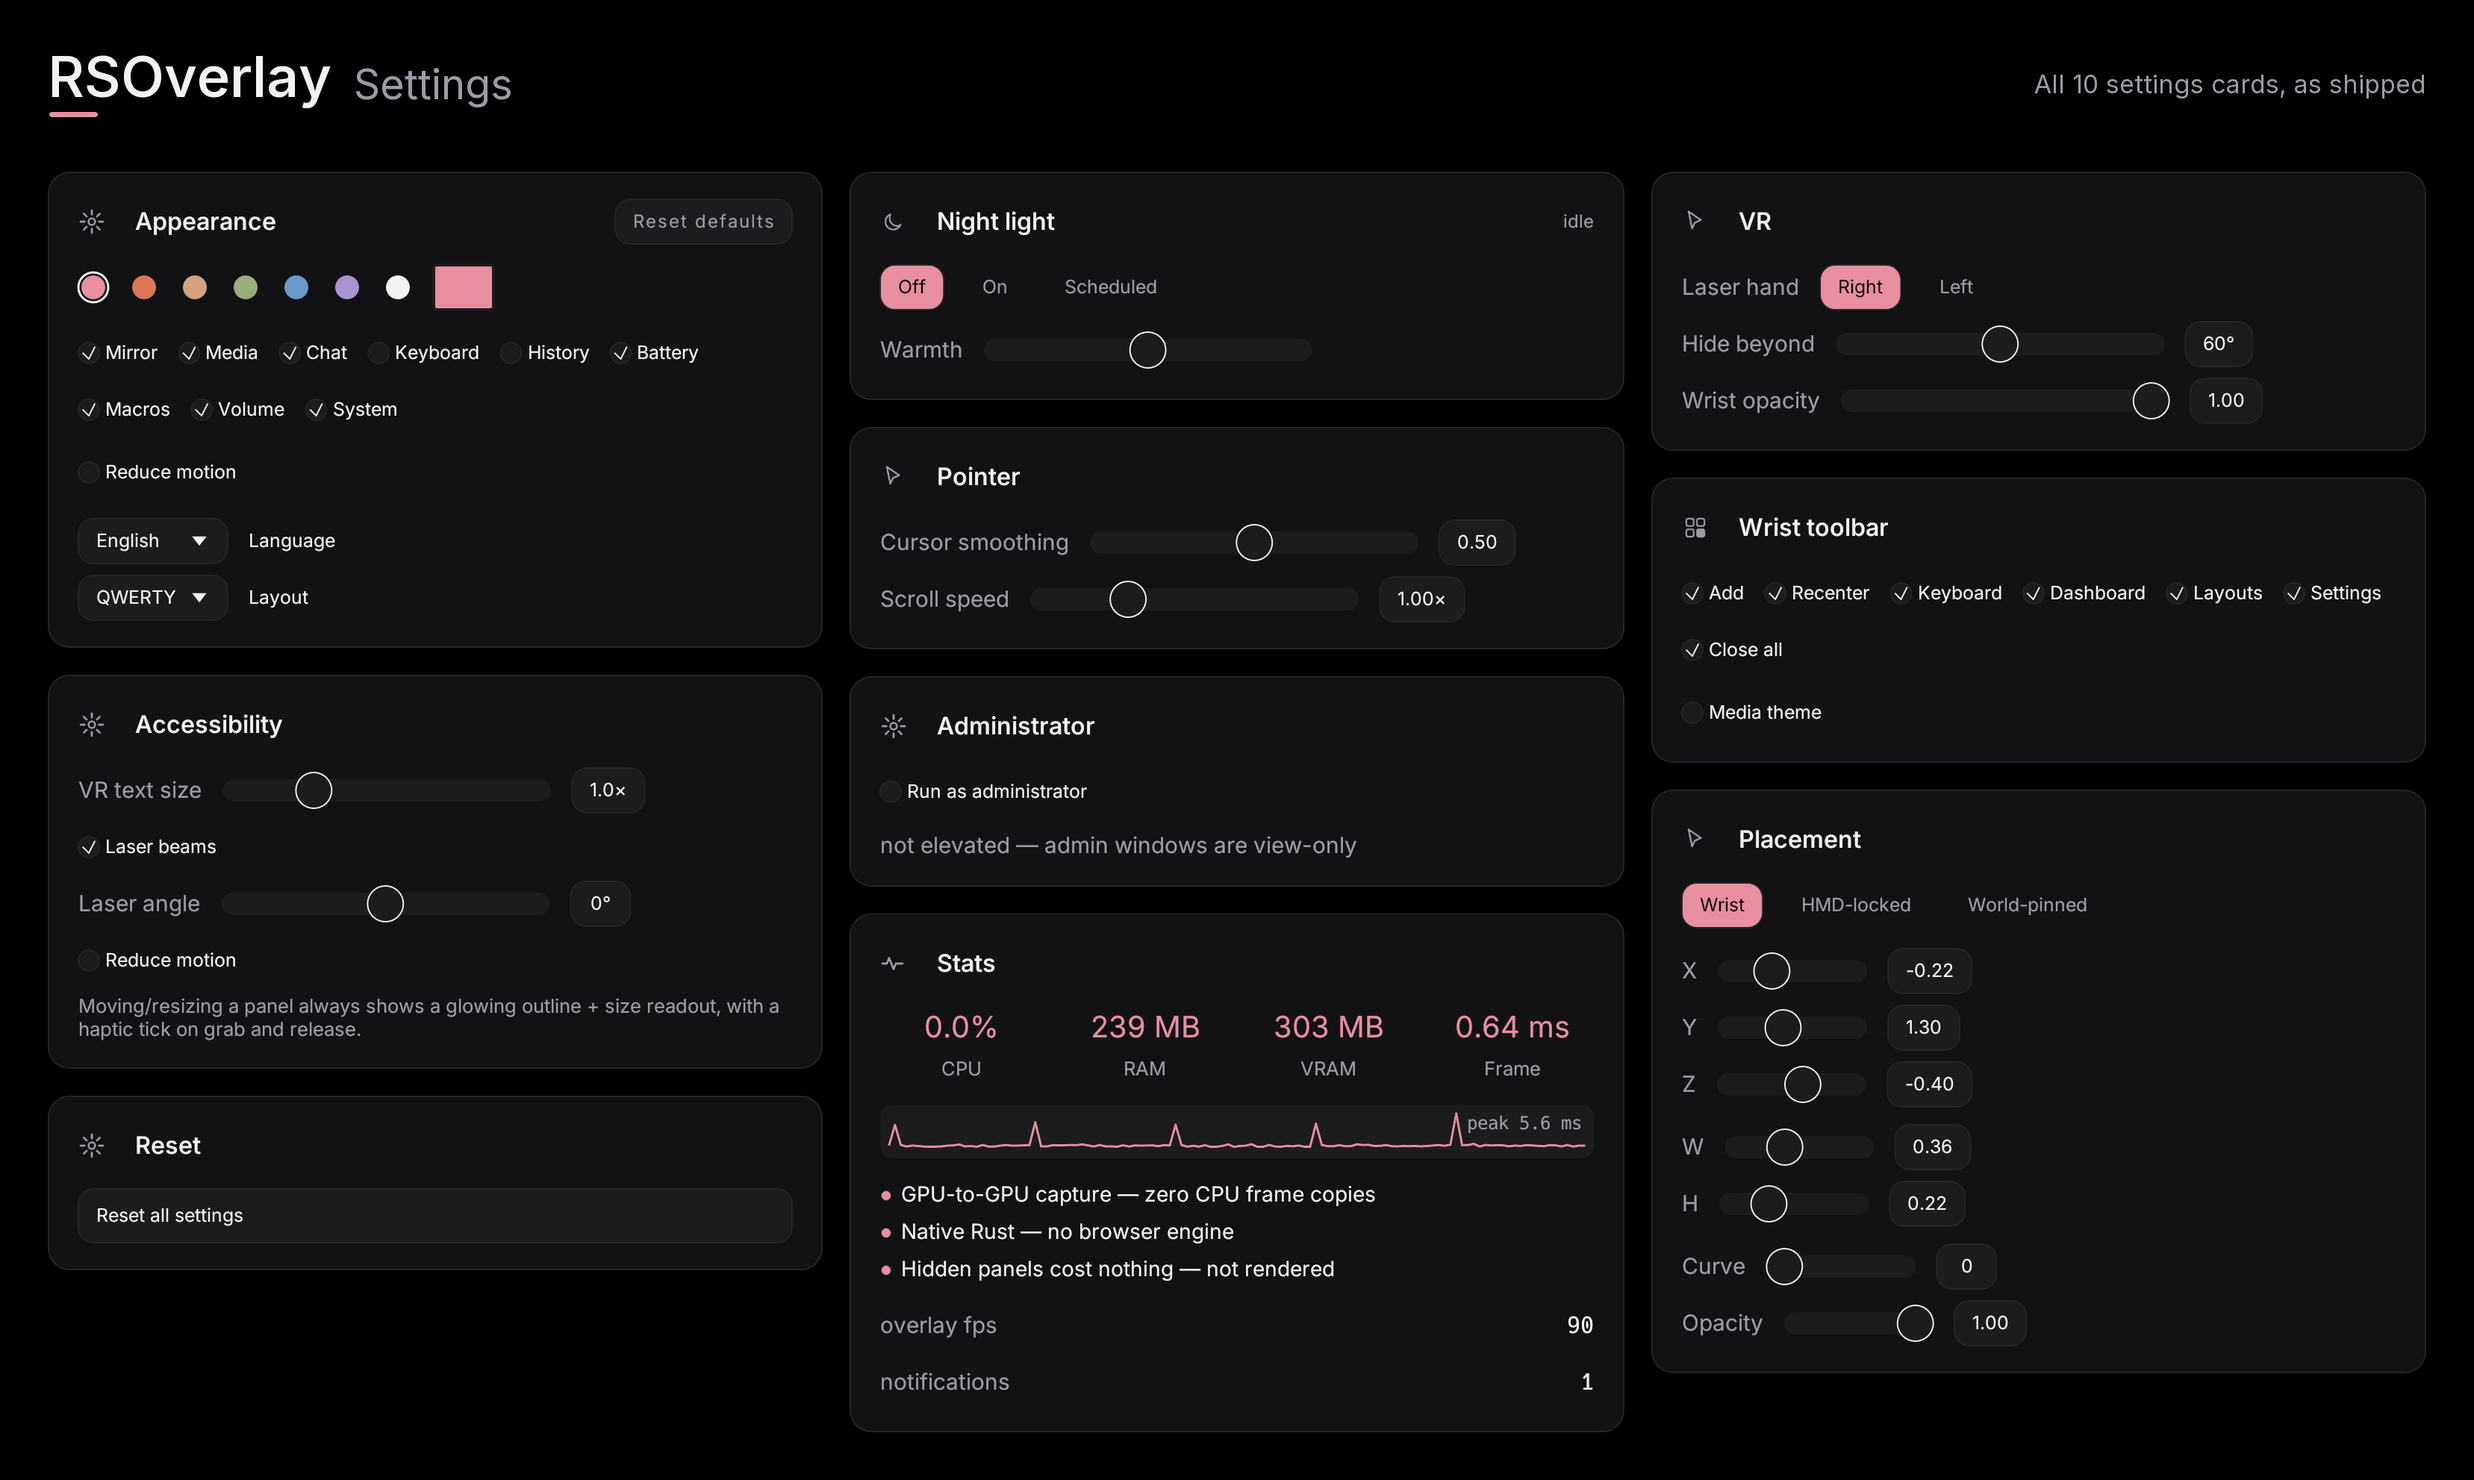
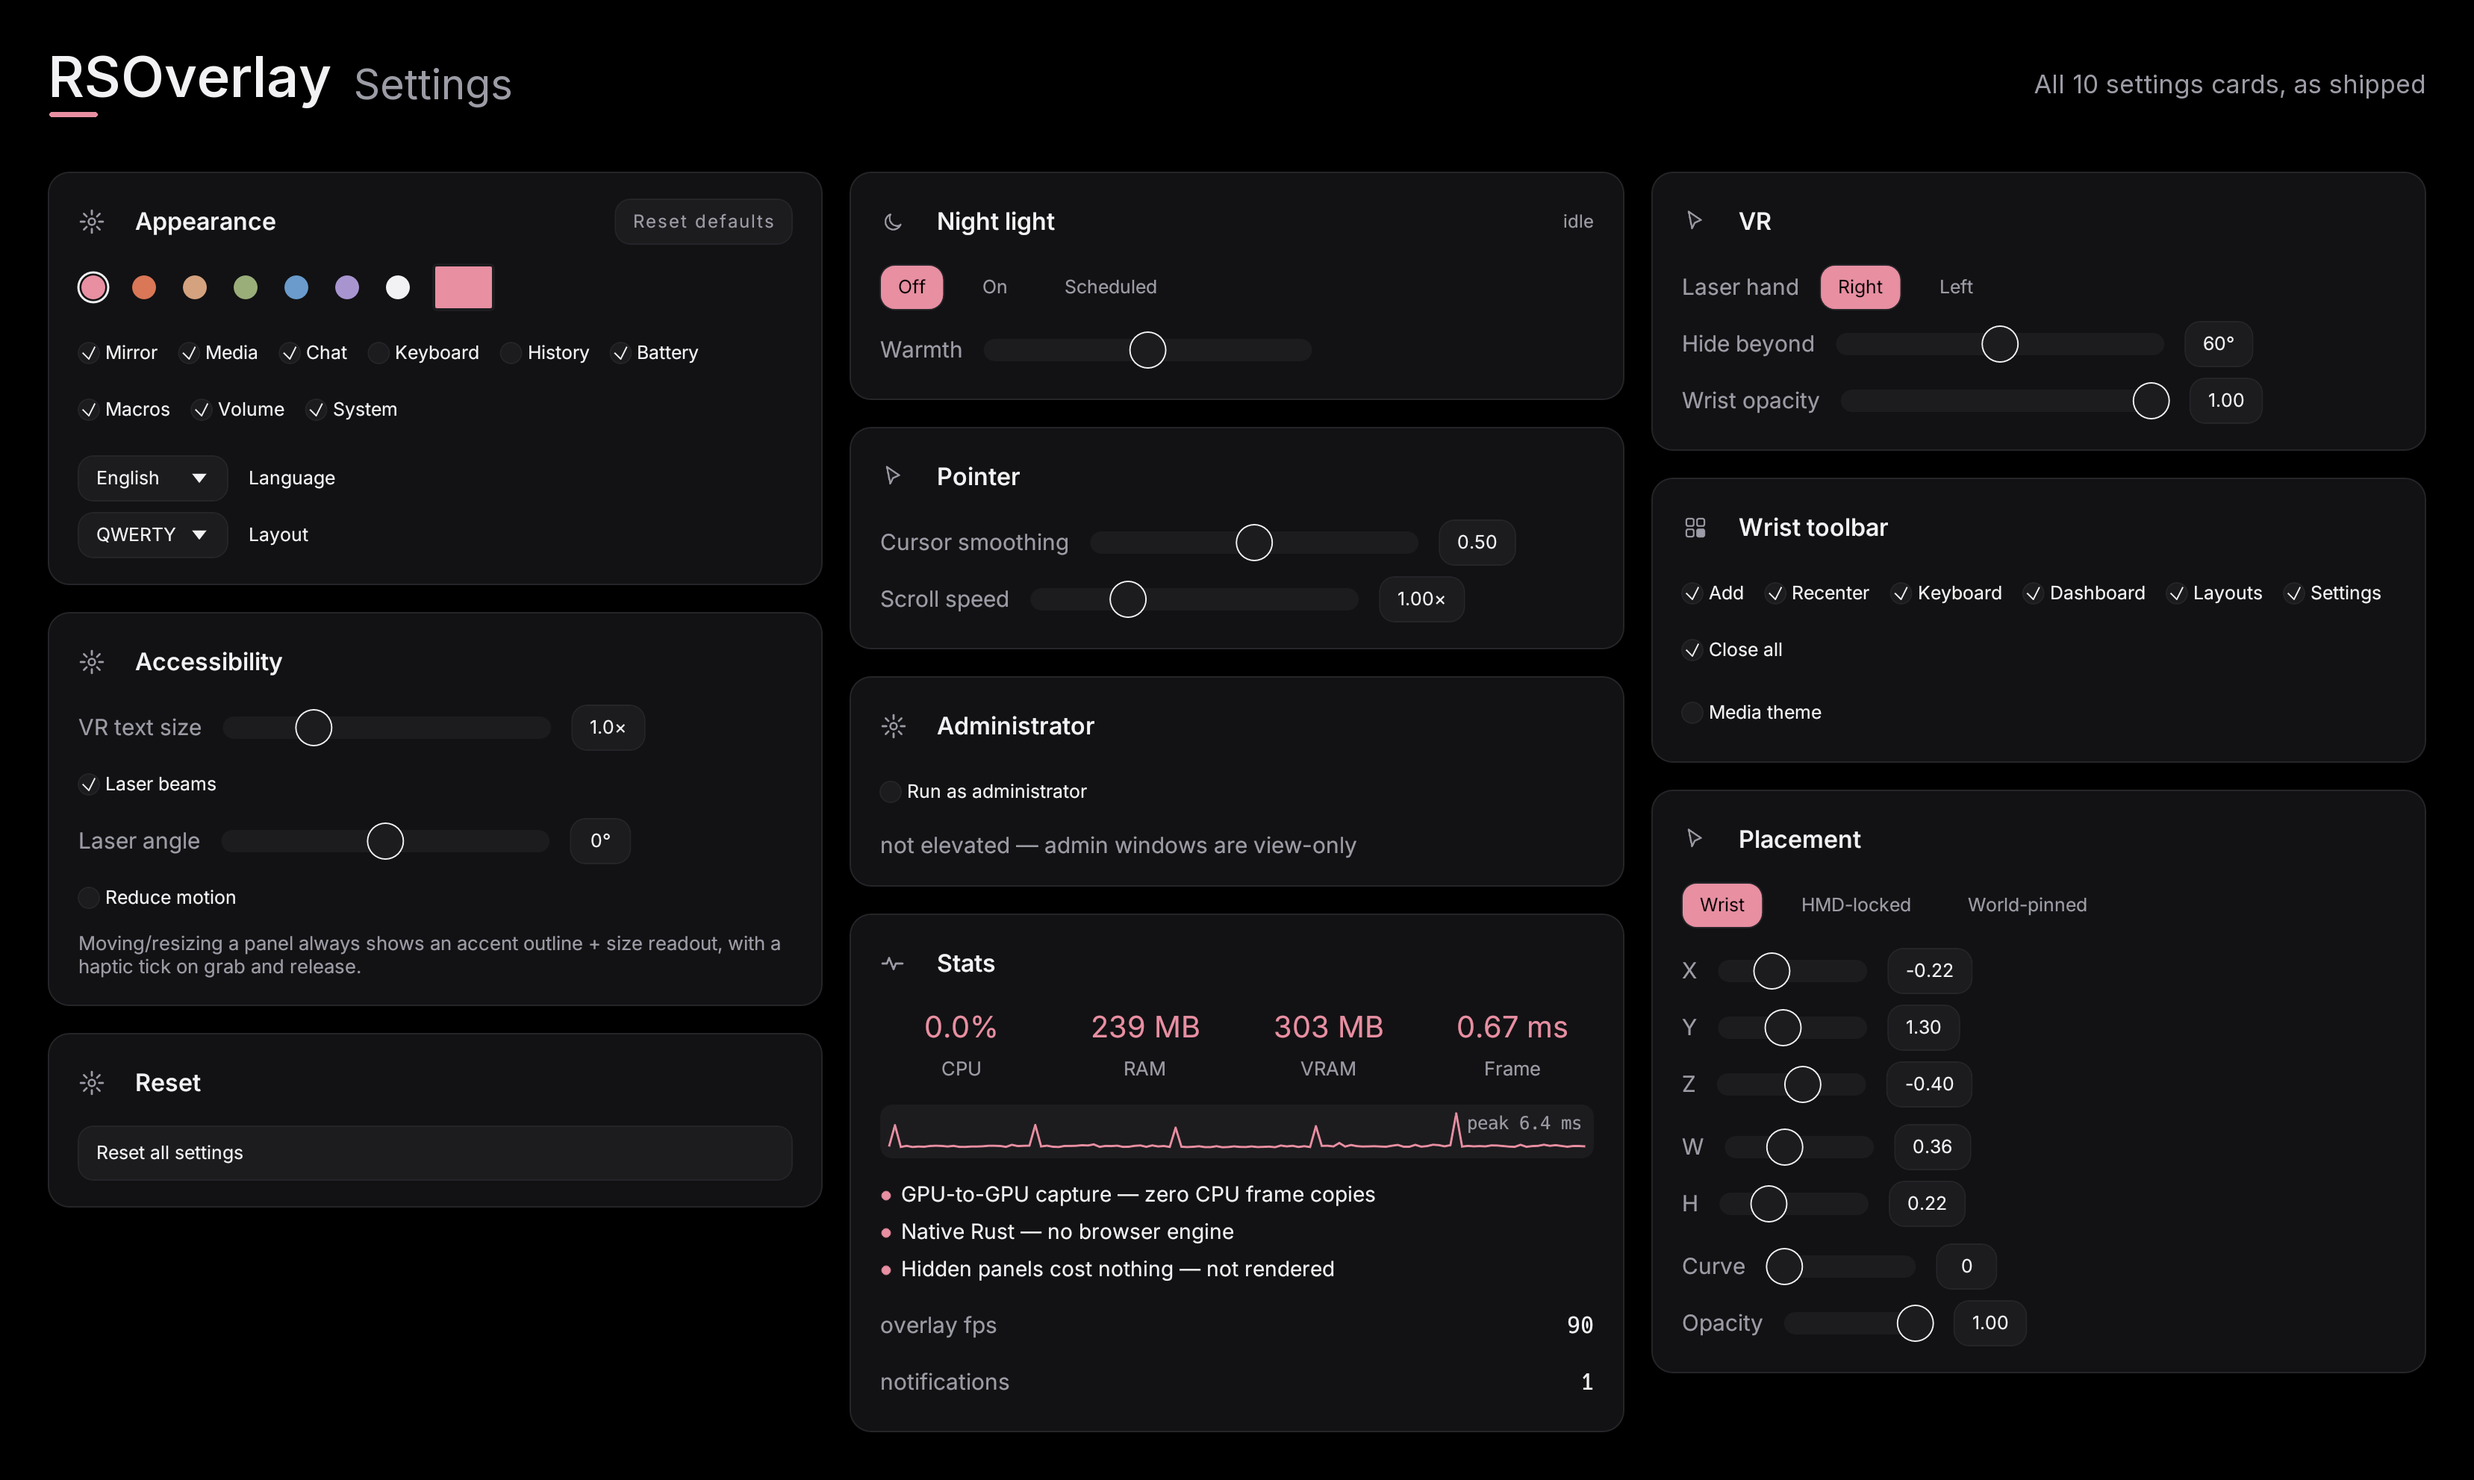
Settings: Reduce motion only under Accessibility (was duplicated in Appearance); accurate grab-outline wording; refresh settings overview

diff --git a/crates/rsoverlay-ui/src/views.rs b/crates/rsoverlay-ui/src/views.rs
@@ -610,7 +610,6 @@ impl DevView {
                             &mut self.show_macros,
                             &mut self.show_volume,
                             &mut self.show_system,
-                            &mut self.reduce_motion,
                             &mut self.language,
                             &mut self.keyboard.layout,
                         );
@@ -1007,7 +1006,6 @@ impl DevView {
                         &mut self.show_macros,
                         &mut self.show_volume,
                         &mut self.show_system,
-                        &mut self.reduce_motion,
                         &mut self.language,
                         &mut self.keyboard.layout,
                     ) {
@@ -1117,7 +1115,7 @@ fn accessibility_card(ui: &mut egui::Ui, scale: &mut f32, lasers: &mut bool, las
         .response
         .on_hover_text("Tilt the laser up/down to match how you hold your controller");
         ui.checkbox(reduce_motion, "Reduce motion").on_hover_text("Make page, toast and highlight transitions instant");
-        ui.label(egui::RichText::new("Moving/resizing a panel always shows a glowing outline + size readout, with a haptic tick on grab and release.")
+        ui.label(egui::RichText::new("Moving/resizing a panel always shows an accent outline + size readout, with a haptic tick on grab and release.")
             .size(theme::SIZE_CAPTION + 1.0).color(theme::FG_MUTED));
     });
 }
@@ -1501,7 +1499,6 @@ fn appearance_card(
     show_macros: &mut bool,
     show_volume: &mut bool,
     show_system: &mut bool,
-    reduce_motion: &mut bool,
     language: &mut crate::i18n::Lang,
     keyboard_layout: &mut crate::keyboard_layout::LayoutId,
 ) -> bool {
@@ -1562,9 +1559,6 @@ fn appearance_card(
             ui.checkbox(show_volume, "Volume");
             ui.checkbox(show_system, "System");
         });
-        ui.add_space(4.0);
-        ui.checkbox(reduce_motion, "Reduce motion")
-            .on_hover_text("Make page, toast and highlight transitions instant");
         ui.add_space(8.0);
         // Language picker — shows the native-script name so a Russian
         // user sees Русский.
